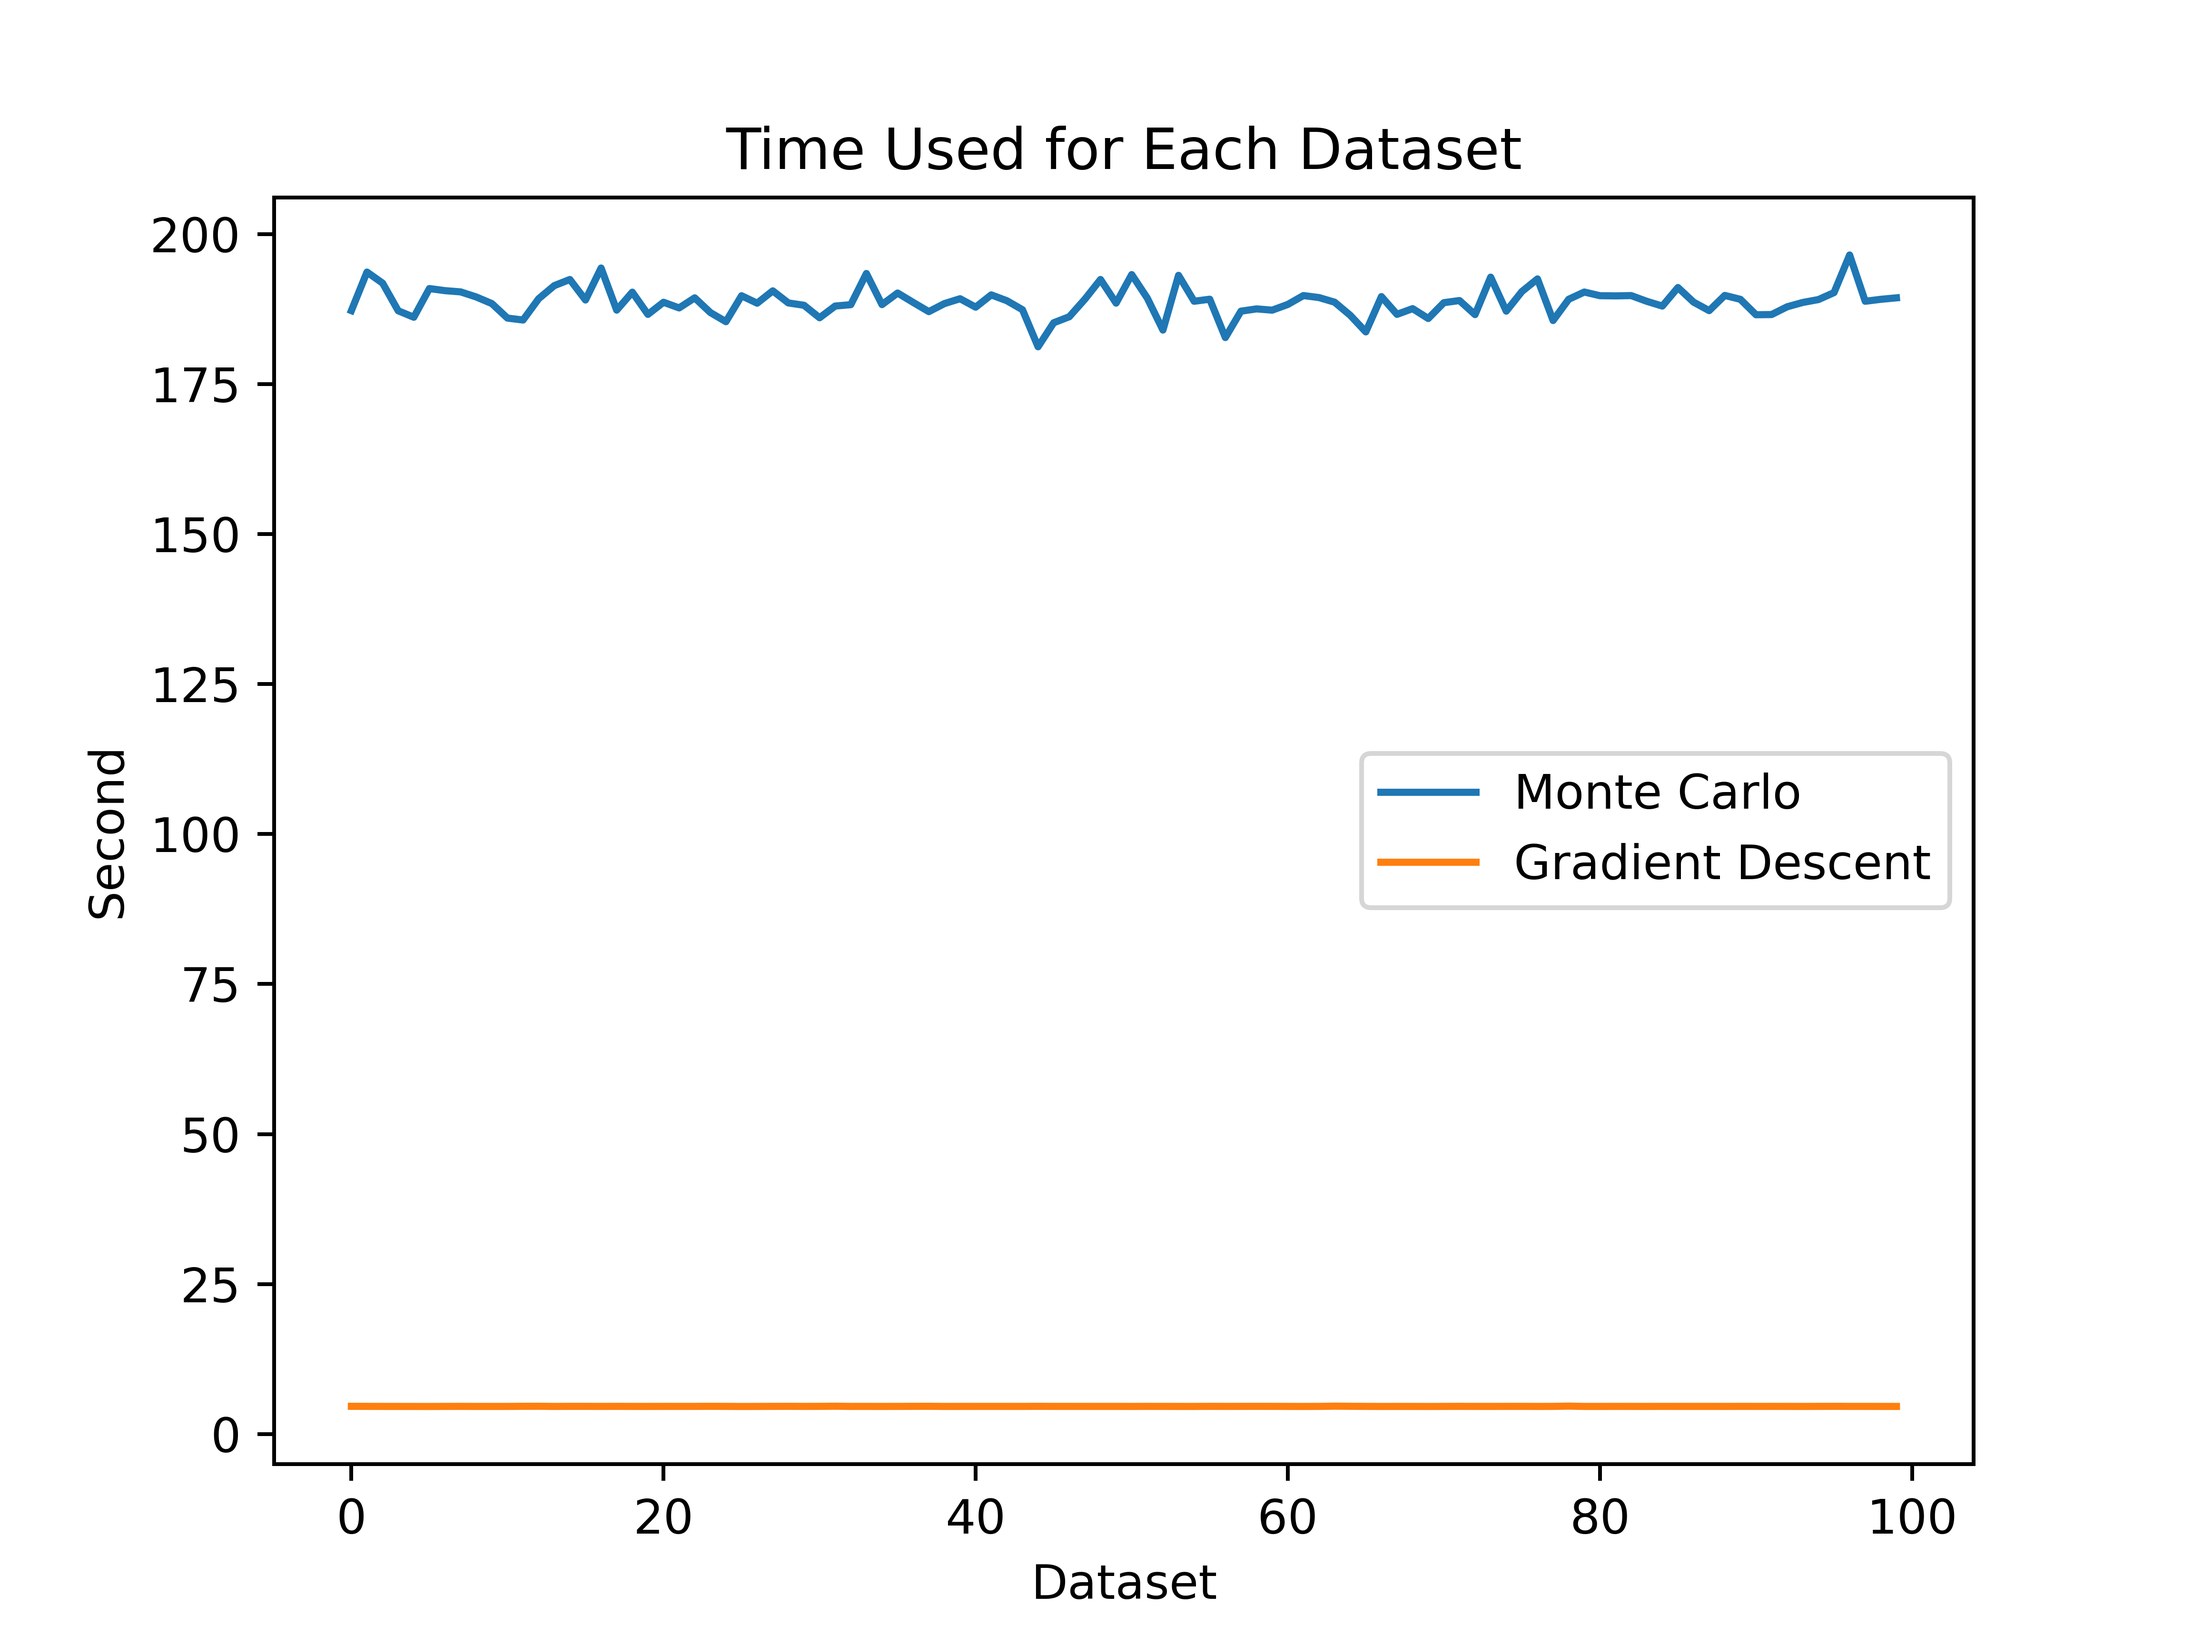
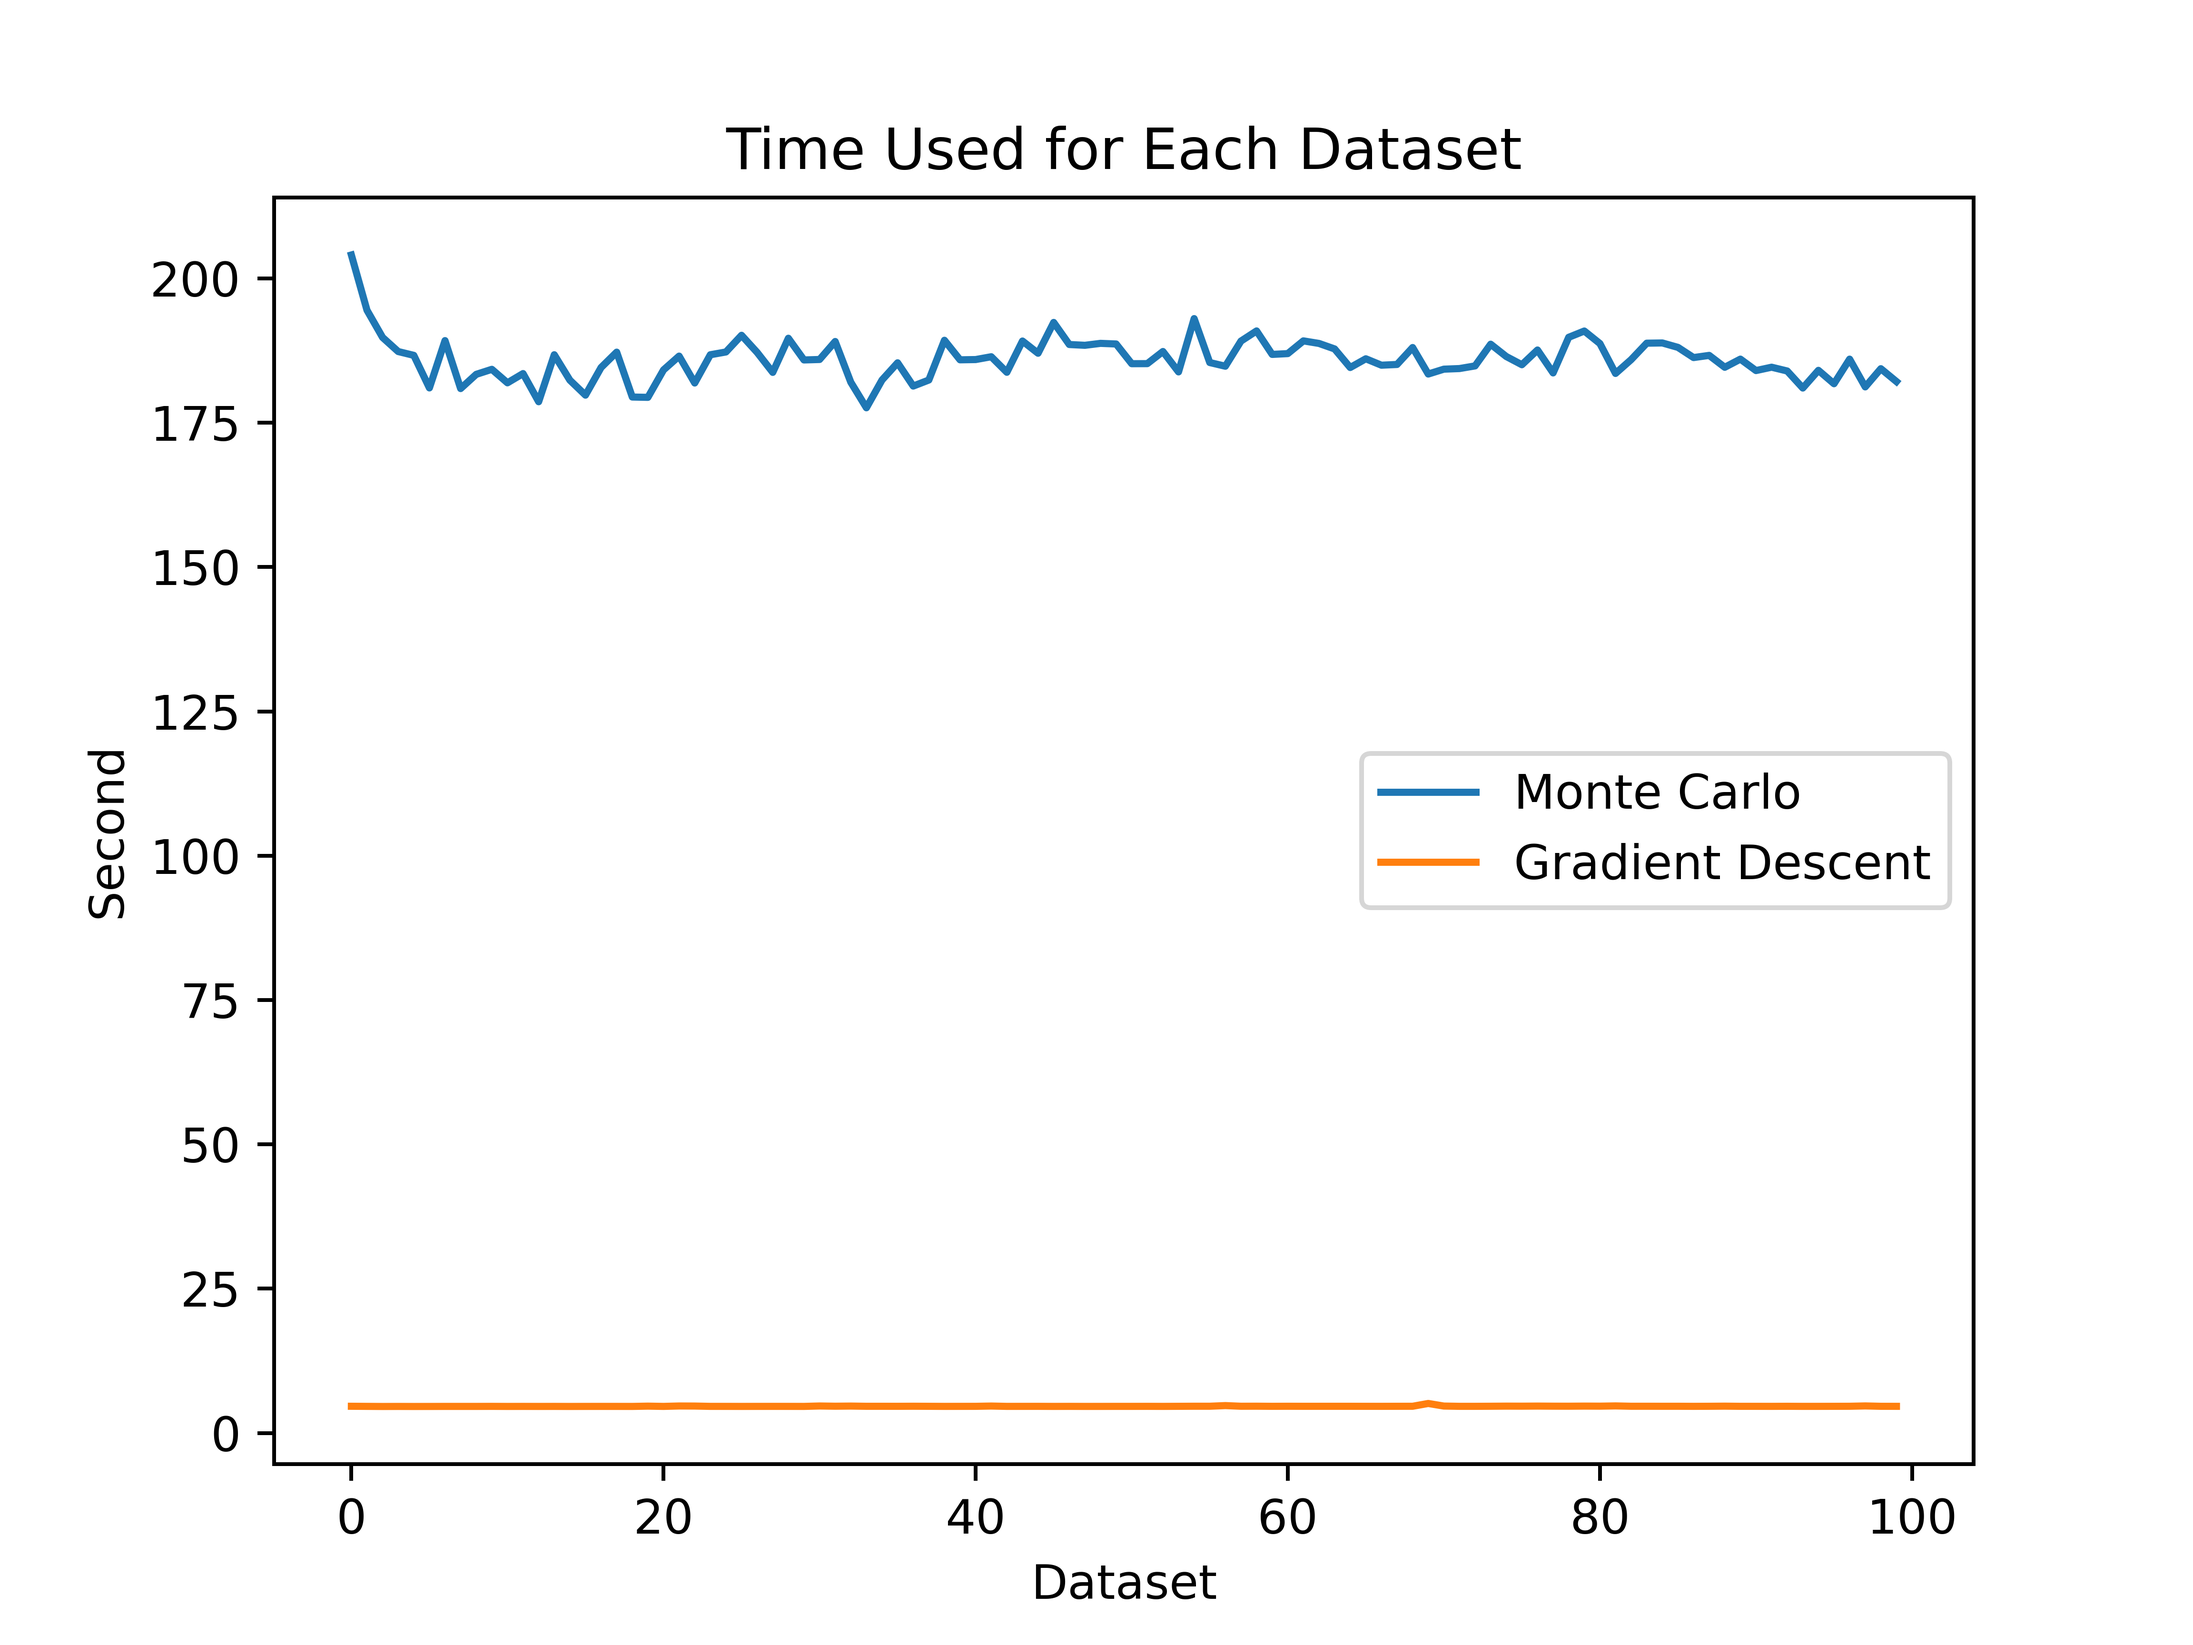
test file and experiement

diff --git a/runTest.py b/runTest.py
@@ -1,61 +1,68 @@
 from experiment import DistributedMCE as DMCE
+from experiment import MonteCarloEstimationMinMax as MCEMM
 from experiment import ComputeLoss as comLoss
 from experiment import GradientDescent as GD
 import LinearRegression as LR
 from tqdm import tqdm
 import time
 
-MC_Iteration = 1000
-numOfThread  = 10
-GD_Iteration = MC_Iteration*numOfThread
-GD_alpha     = 0.000001
-numOfTrial   = 100
+MC_Iteration     = 1000
+numOfThread      = 10
+GD_Iteration     = MC_Iteration*numOfThread
+GD_alpha         = 0.000001
+numOfTrial       = 100
 numOfObservation = 1000
 
-with open('0521v1/configuration.txt', 'w') as config:
-    print(f'Number of Monte Carlo iteration: {MC_Iteration}', file=config)
-    print(f'Number of thread: {numOfThread}', file=config)
-    print(f'Gradient descent iteration: {GD_Iteration}', file=config)
-    print(f'Number of trail (data sets): {numOfTrial}', file=config)
-    print(f'Number of observation (number of row for the generated data): {numOfObservation}', file=config)
+with open('0521v1/configuration.txt', 'w') as config:                                                       # Log down the configuration
+    print(f'Number of Monte Carlo iteration: {MC_Iteration}', file=config)                                  # Print the number of Monte Carlor samples to file
+    print(f'Number of thread: {numOfThread}', file=config)                                                  # Print number of threads are used to file
+    print(f'Gradient descent iteration: {GD_Iteration}', file=config)                                       # Print number of iteration for gradient descent to file
+    print(f'Number of trail (data sets): {numOfTrial}', file=config)                                        # Print number of test run to file
+    print(f'Number of observation (number of row for the generated data): {numOfObservation}', file=config) # Print the amount of row we would like to generate 
     config.close()
 
-with open('0521v1/mc.txt', 'w') as mc,  open('0521v1/gd.txt', 'w') as gd:
+with open('0522v1/mc.txt', 'w') as mc,  open('0522v1/gd.txt', 'w') as gd:                                   # Log Monte Carlo estimation and Gradient descent to file 
     for i in tqdm(range(numOfTrial)):
-        xt, xts, yt, yts, beta = LR.generate_matrix(numOfObservation, 3, True)
+        xt, xts, yt, yts, beta = LR.generate_matrix(numOfObservation, 3, True)                              # Generate linear regression data
         
-        a = time.process_time()
-        MC_train_loss, MC_beta = DMCE(xt, yt, MC_Iteration)
-        b = time.process_time() 
-        total = b - a
-        MC_train_loss = MC_train_loss / xt.shape[0]
-        MC_test_loss = sum(comLoss(MC_beta, xts, yts))/xts.shape[0]
-        mc.write(','.join(str(val) for val in MC_beta.flatten().tolist()))
-        mc.write(',')
-        mc.write(','.join(str(val) for val in beta)) 
-        mc.write(',')
-        output = [MC_train_loss, MC_test_loss, round(total,8)]
-        mc.write(','.join(str(val) for val in output))
-        mc.write(',')
-        mc.write('\n')
-        a = time.process_time()
-        GD_train_loss, GD_beta = GD(xt, yt, alpha=0.0001, iteration=GD_Iteration)
-        b = time.process_time()
-        total = b - a
-        GD_test_loss = sum(comLoss(GD_beta, xts, yts))/xts.shape[0]
-        GD_beta = GD_beta[-1]
-        GD_train_loss = GD_train_loss[-1]/xt.shape[0]
-        gd.write(','.join(str(val) for val in GD_beta.flatten().tolist()))
-        gd.write(',')
-        gd.write(','.join(str(val) for val in beta)) 
-        gd.write(',')
-        output = [GD_train_loss[0], GD_test_loss[0], round(total,8)]
-        gd.write(','.join(str(val) for val in output))
-        gd.write(',')
-        gd.write('\n')
-        print('Actual betas: {}'.format(beta))
-        print('MC betas:     {}'.format(MC_beta))
-        print('GD betas:     {}'.format(GD_beta))
+        ### Monte Carlo estimation starts here
+        low, high = MCEMM(xt)                                                                               # Get the min and max as search space Monte Carlo Estimation 
+        
+        a = time.process_time()                                                                             # Performance metric: track the time
+        MC_train_loss, MC_beta = DMCE(xt, yt, low, high, MC_Iteration)                                      # Monte Carlo estimation
+        b = time.process_time()                                                                             # Performance metric: track the time 
+        total = b - a                                                                                       # Get the total time used
+        MC_test_loss = comLoss(MC_beta, xts, yts)                                                           # Calculate the Mean Sqaured Error for the test set
+        mc.write(','.join(str(val) for val in MC_beta.flatten().tolist()))                                  # Log Monte Carlo beta to file
+        mc.write(',')                                                                                       # Write a comma to file
+        mc.write(','.join(str(val) for val in beta))                                                        # Write beta (generated beta) to file
+        mc.write(',')                                                                                       # Write comma to file 
+        output = [MC_train_loss, MC_test_loss, round(total,8)]                                              # Write data to file
+        mc.write(','.join(str(val) for val in output))                                                      # Write Monte Carlo training loss, Monte Carlo test loss and time to file
+        mc.write(',')                                                                                       # Write comma to file
+        mc.write('\n')                                                                                      # Write newline to file
+        ### Monte Carlo estimation ends here
 
-    mc.close()
-    gd.close()
+        ### Gradient Descent starts here
+        a = time.process_time()                                                                             # Performance metric: track the time
+        GD_train_loss, GD_beta = GD(xt, yt, alpha=0.0001, iteration=GD_Iteration)                           # Graident descent
+        b = time.process_time()                                                                             # Performance metric: track the time
+        total = b - a                                                                                       # Performance metric: track the time
+        GD_train_loss = GD_train_loss[-1]                                                                   # Calculate the Mean Sqaured Error for train set
+        GD_test_loss = comLoss(GD_beta, xts, yts)                                                           # Calculate the Mean Sqaured Error for test set
+        GD_beta = GD_beta[-1]                                                                               # Get the optimal betas from gradient descent
+        gd.write(','.join(str(val) for val in GD_beta.flatten().tolist()))                                  # Write data to file
+        gd.write(',')                                                                                       # Write data to file
+        gd.write(','.join(str(val) for val in beta))                                                        # Write data to file
+        gd.write(',')                                                                                       # Write data to file
+        output = [GD_train_loss[0], GD_test_loss[0], round(total,8)]                                        # Write data to file
+        gd.write(','.join(str(val) for val in output))                                                      # Write data to file
+        gd.write(',')                                                                                       # Write data to file
+        gd.write('\n')                                                                                      # Write data to file
+        print('Actual betas: {}'.format(beta))                                                              # Print beta 
+        print('MC betas:     {}'.format(MC_beta))                                                           # Print beta hat (Monte Carlo) 
+        print('GD betas:     {}'.format(GD_beta))                                                           # Print beta hat (Gradient descent)
+        ### Gradient Descent ends here
+
+    mc.close()                                                                                              # Close Monte Carlo file
+    gd.close()                                                                                              # Close Gradient Descent file

diff --git a/experiment.py b/experiment.py
@@ -3,9 +3,10 @@ import numpy as np
 from concurrent.futures import ThreadPoolExecutor, as_completed
 import random
 from tqdm import tqdm
+import time
 
 def ComputeLoss(betas: np.array, xt: int, yt: int) -> np.ndarray:
-	return sum((xt @ betas - yt)**2)
+	return (sum((xt @ betas - yt)**2))/xt.shape[0]
 
 def MonteCarloGetOptimialValues(error, beta):
     OptimalIndex = error.index(min(error))
@@ -19,45 +20,54 @@ def MonteCarloEstimationMinMax(xt):
 
 def MonteCarloEstimationWorker(xt, yt, low, high, iteration):
     OptimalMSE = sys.maxsize
+    a = time.process_time()
     for i in range(iteration):
         betas = np.round(np.random.uniform(low, high, size=(xt.shape[1],1)),2)
-        MSE_error = sum(ComputeLoss(betas, xt, yt))/xt.shape[0]
+        MSE_error = ComputeLoss(betas, xt, yt)
         OptimalBetas = np.nan
         if MSE_error < OptimalMSE:
             OptimalError = MSE_error
             OptimalBetas = betas
+    b = time.process_time()
+    print(f"MCE Worker took: {b-a} second")
     return OptimalBetas, OptimalMSE
 
-def DistributedMCE(xt, yt, iteration= 1_000, numberOfThreads = 10):
-	low, high = MonteCarloEstimationMinMax(xt)
+def DistributedMCE(xt, yt, low, high, iteration= 1_000, numberOfThreads = 10):
 	print("Starting up the threads")
 	with ThreadPoolExecutor(max_workers=numberOfThreads) as executor:
+		a = time.process_time()
 		futures = [
 			executor.submit(MonteCarloEstimationWorker, xt, yt, low, high, iteration)
 			for _ in range(numberOfThreads)
 		]
+		b = time.process_time()
+		print(f"Spinning the threads and add future to futures list took {b-a} second")
 		print("All tasks assigned to threads")
 		OptimalMSE   = sys.maxsize
 		OptimalBetas = np.nan 
 		print("Pending results from threads")
+		a = time.process_time()
 		for future in tqdm(as_completed(futures), total=numberOfThreads):
 			betas, error = future.result()
 			if error <= OptimalMSE:
 				OptimalMSE   = error
 				OptimalBetas = betas
-		
+		b = time.process_time()
+		print(f"Merging solution took {b-a} second")		
 	print("---------------------- Returning results -----------------------") 
 	return OptimalMSE, OptimalBetas
 	
-def MonteCarloEstimation(xt, yt, iteration=500):
-	low, high = MonteCarloEstimationMinMax(xt)
+def MonteCarloEstimation(xt, yt, low, high, iteration=1000):
 	betasValues = []
 	lossValues  = []
-	for i in tqdm(range(1000)):
+	a = time.process_time()
+	for i in tqdm(range(iteration)):
 		betas = np.random.uniform(low,high, size=(xt.shape[1],1))
 		betasValues.append(betas)
 		error = ComputeLoss(betas, xt, yt)
 		lossValues.append(error)
+	b = time.process_time()
+	print(f"Single threaded MCE took {b-a} second")
 	return lossValues, betasValues
 
 def BinaryGridSearchPointGenerator(low, high, numFeatures, direction):
